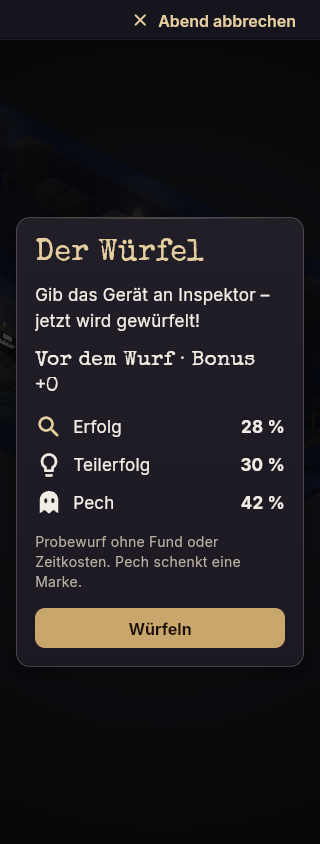
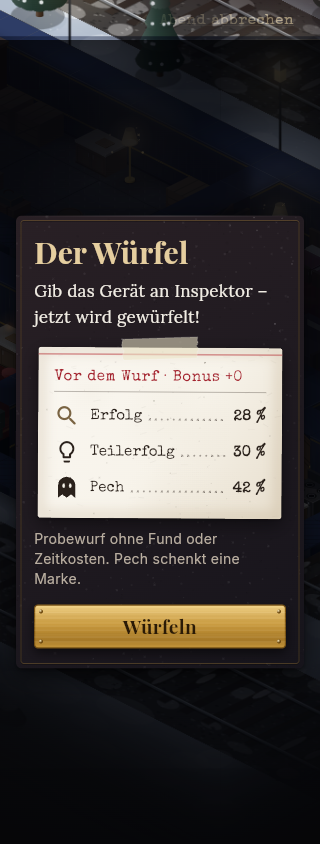
Detektei: Tonschalter neben der Wortmarke statt darüber
Bei 320 px verdeckte der Schalter das letzte E. Die Marke steht jetzt in
einer Zeile mit gleich breitem Platz links und dem Schalter rechts und
skaliert mit.

Claude-Session: https://claude.ai/code/session_014mzt2ss9wCxhLWYb6t1zkj

diff --git a/lib/detektei/detektei_seite.dart b/lib/detektei/detektei_seite.dart
@@ -80,10 +80,13 @@ class _DetekteiSeiteState extends State<DetekteiSeite> {
         child: Column(
           crossAxisAlignment: CrossAxisAlignment.stretch,
           children: [
-            Stack(
+            // Rechts der Tonschalter, links ein gleich breiter Platz: Die Marke bleibt mittig.
+            Row(
+              crossAxisAlignment: CrossAxisAlignment.start,
               children: [
-                const MordakteWortmarke(),
-                Positioned(top: 0, right: 0, child: MTonSchalter(an: l.ton_an, aus: l.ton_aus)),
+                const SizedBox(width: MMass.tippflaeche),
+                const Expanded(child: MordakteWortmarke()),
+                MTonSchalter(an: l.ton_an, aus: l.ton_aus),
               ],
             ),
             const SizedBox(height: MMass.s24),
